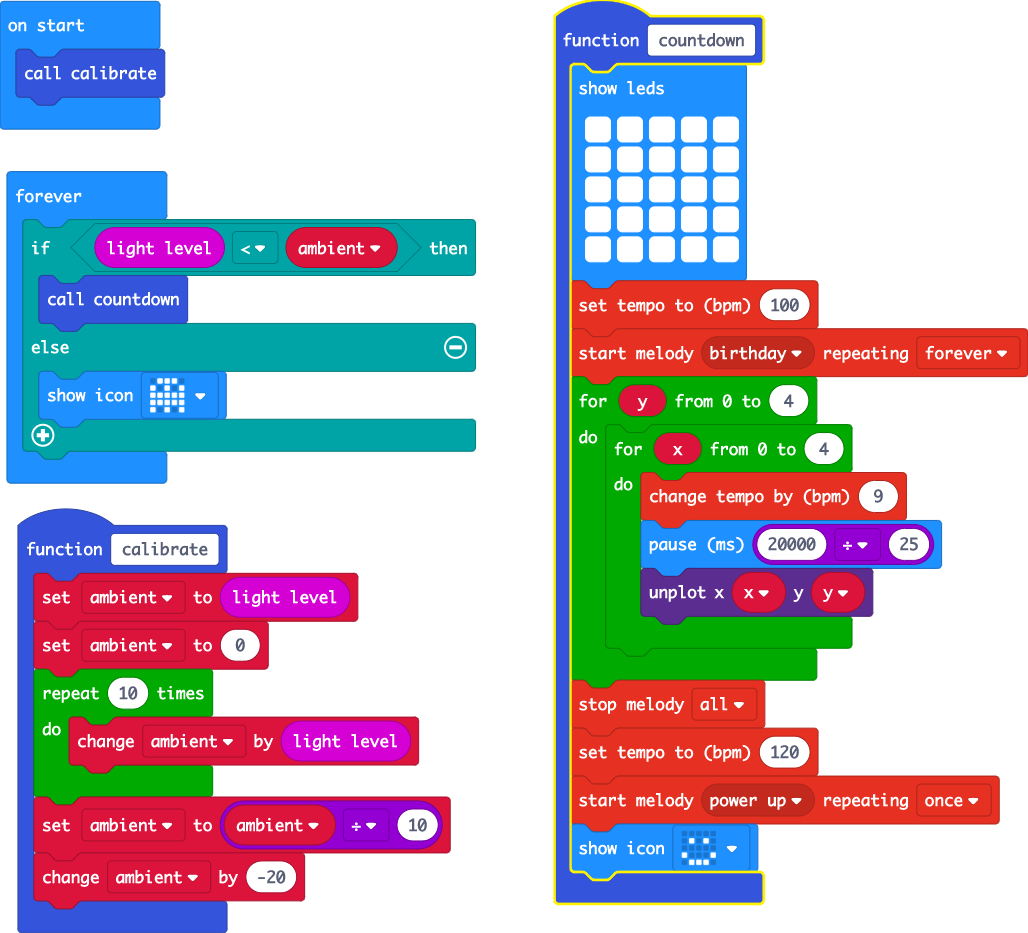
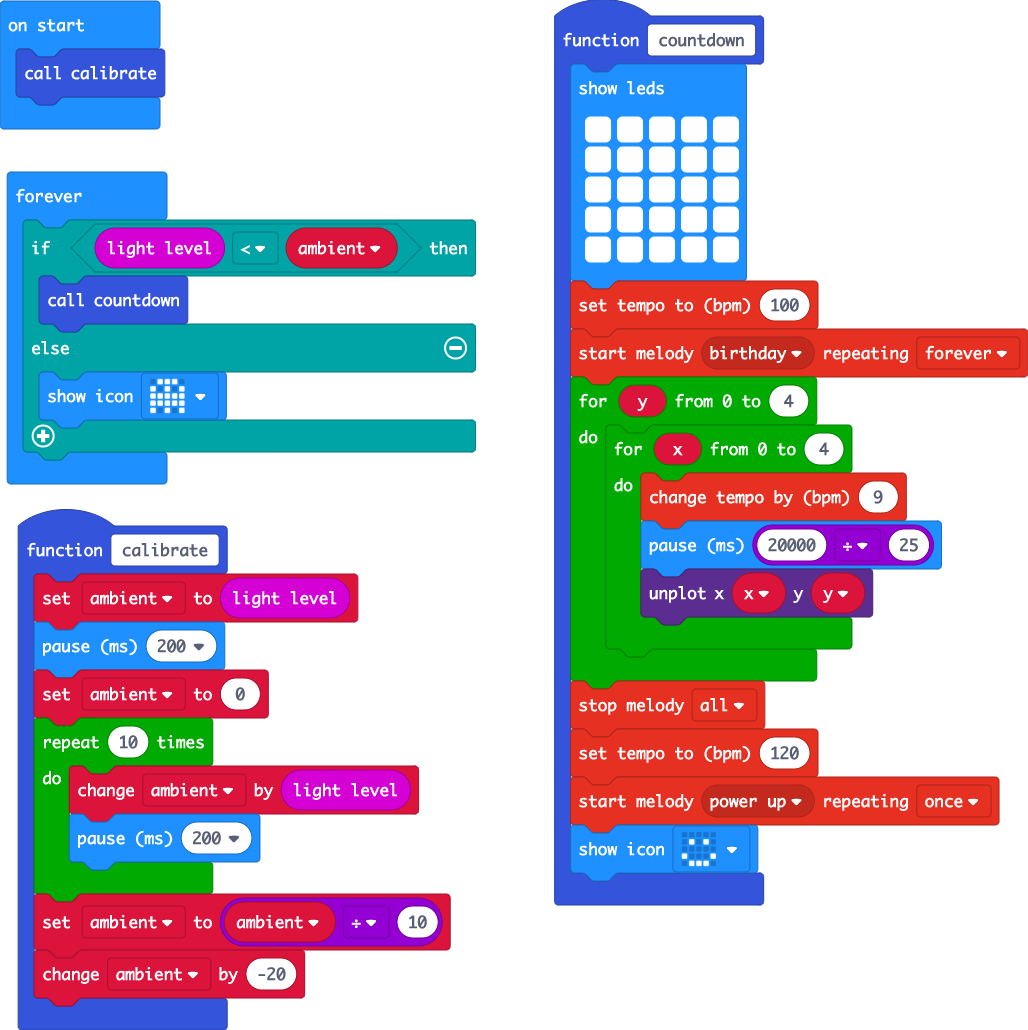
better calibration

diff --git a/main.ts b/main.ts
@@ -1,8 +1,10 @@
 function calibrate () {
     ambient = input.lightLevel()
+    basic.pause(200)
     ambient = 0
     for (let index = 0; index < 10; index++) {
         ambient += input.lightLevel()
+        basic.pause(200)
     }
     ambient = ambient / 10
     ambient += -20
